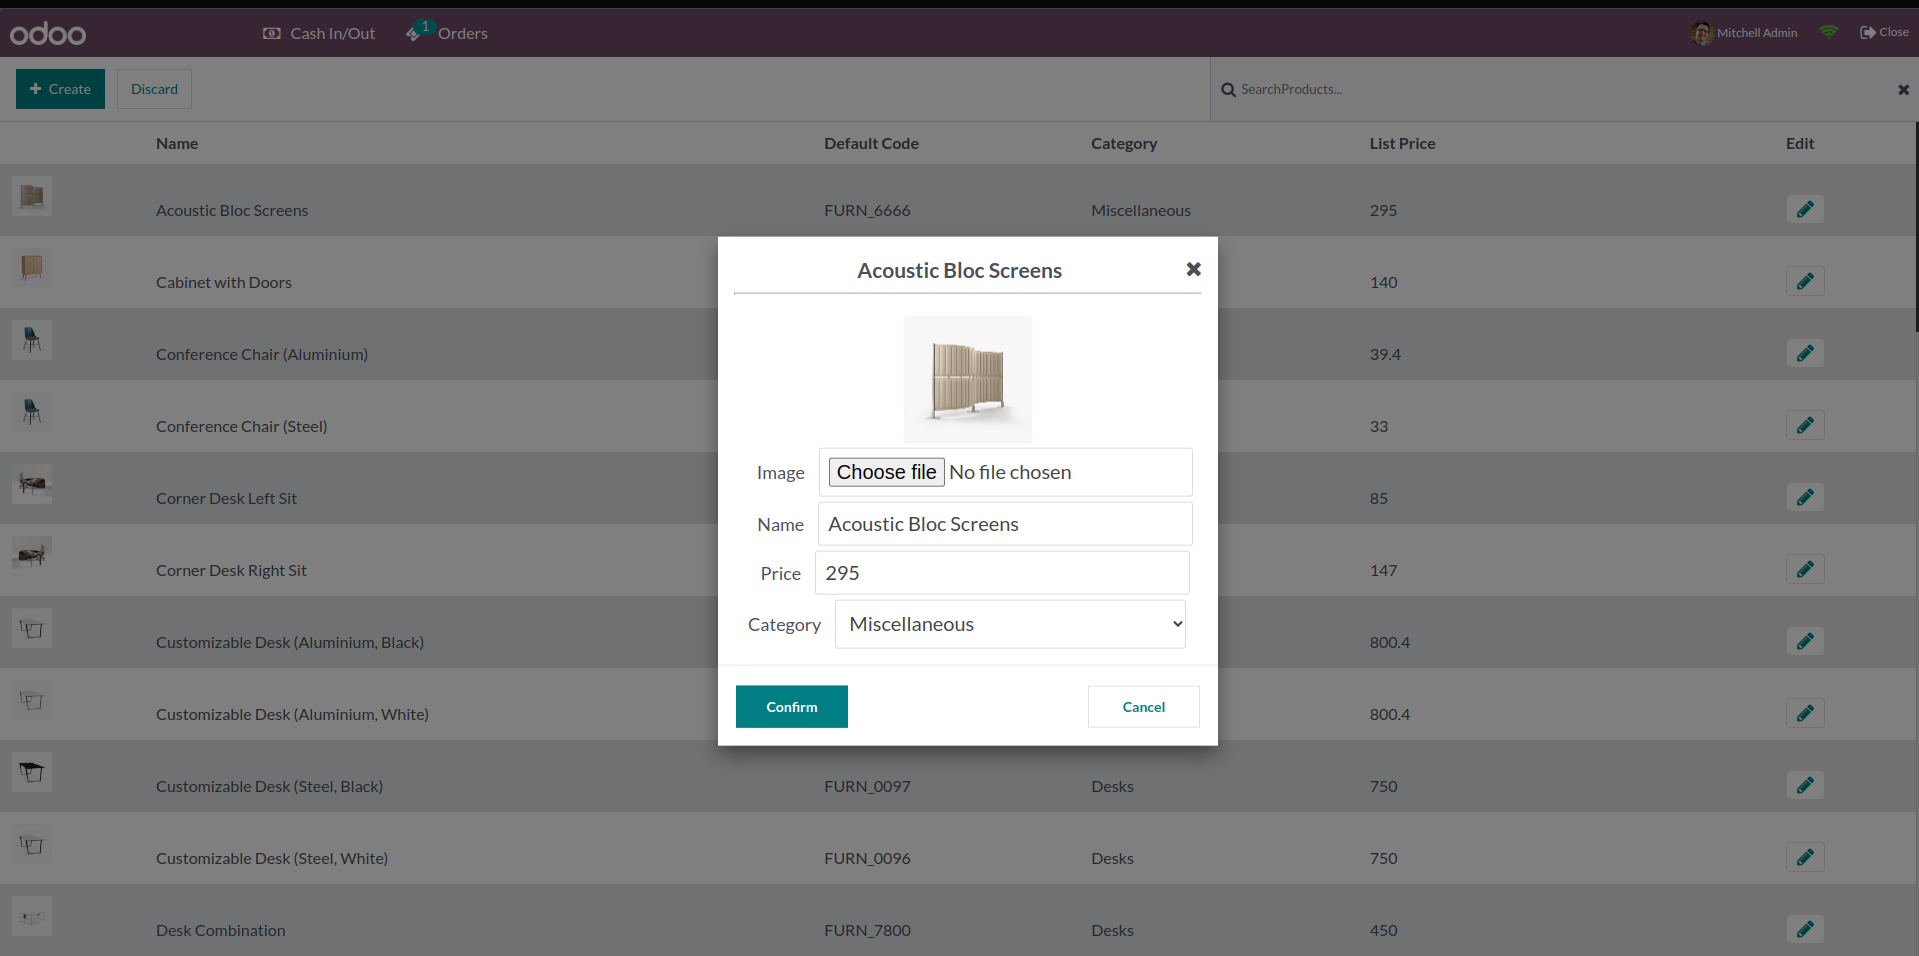
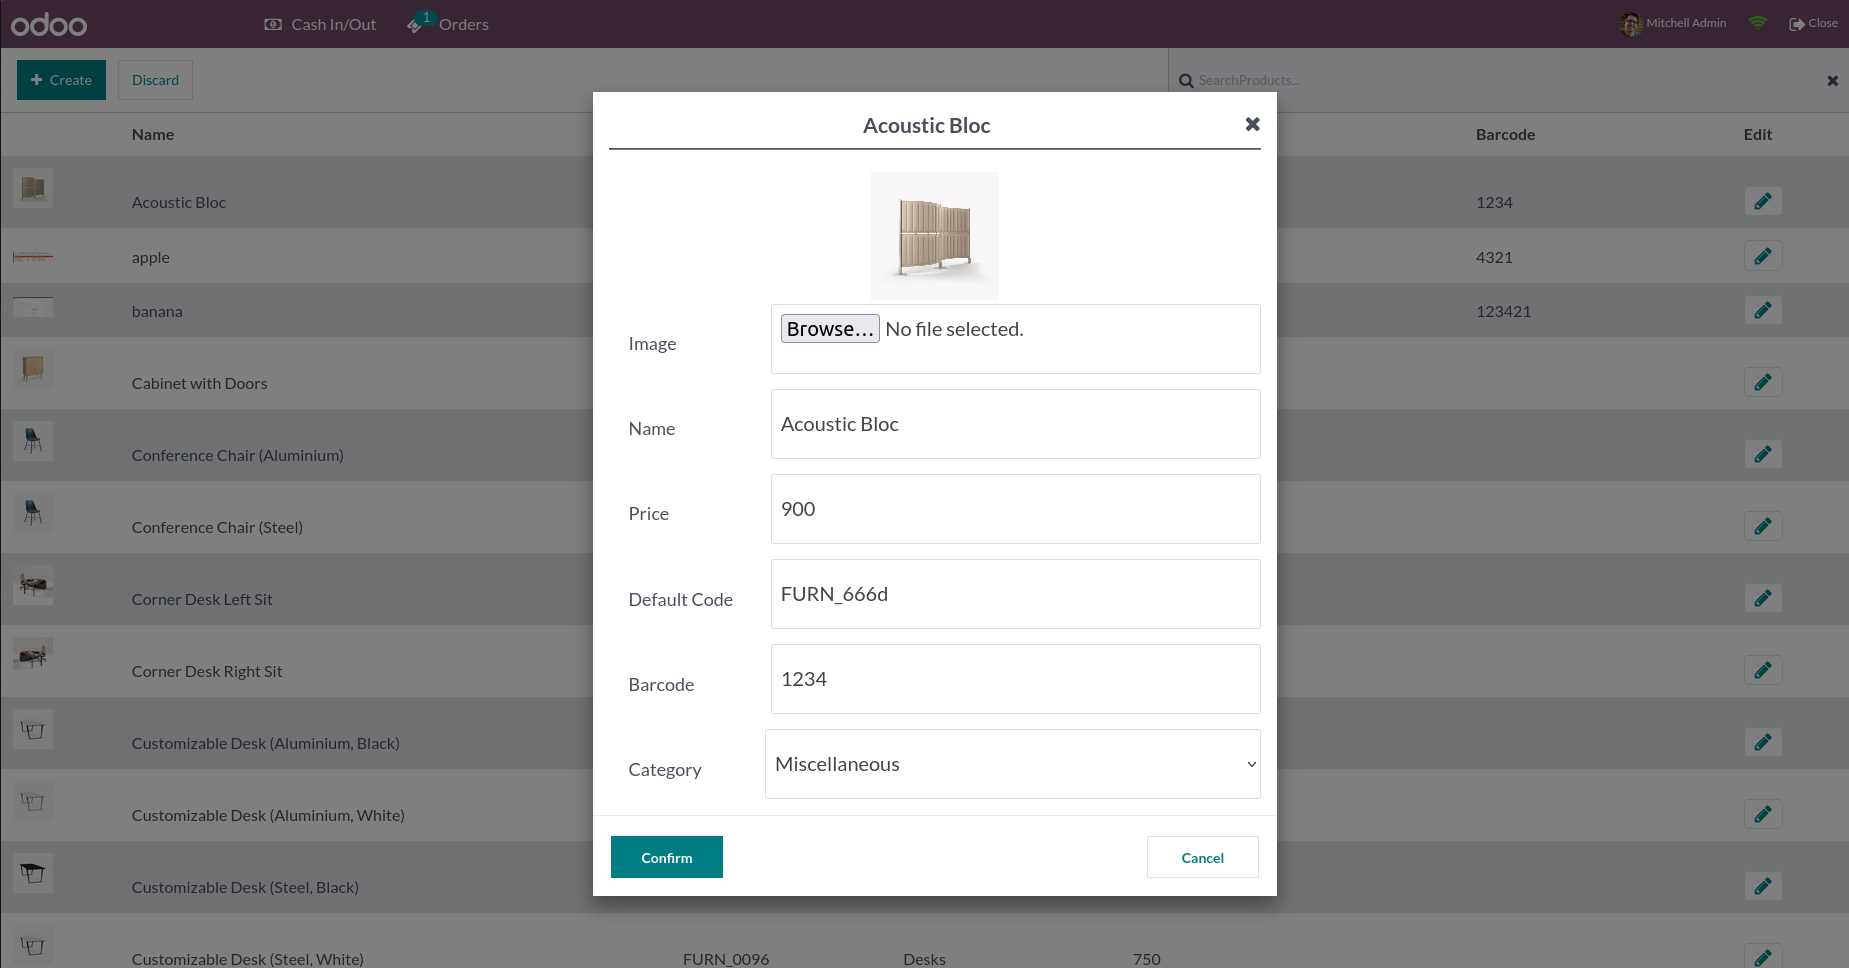
Apr 18 [UPDT] Bug Fixed 'pos_product_create_edit'

diff --git a/pos_product_create_edit/static/description/index.html b/pos_product_create_edit/static/description/index.html
@@ -25,7 +25,7 @@
           Product Create & Edit From Pos</h1>
         <p style="color:#FFFFFF; padding: 8px 15px; text-align: center; font-size: 24px;">You can directly edit or create new product from point of sale.</p>
         <!-- END OF APP HERO -->
-        <img src="assets/screenshots/hero.webp" class="img-responsive"
+        <img src="assets/screenshots/hero.gif" class="img-responsive"
           style="width: 100%; margin-left: auto; margin-right: auto;" />
       </div>
     </div>
@@ -163,7 +163,7 @@
       </h3>
       <p style="font-weight: 400; font-family: 'Montserrat', sans-serif; font-size: 14px;"></p>
         <p style="font-weight: 400; font-family: 'Montserrat', sans-serif; font-size: 14px;">On the product screen you can see All products Listed.Each products have a edit button on the right side. By clicking on the button you can edit the product directly from pos.</p>
-      <img src="assets/screenshots/2.jpg" class="img-thumbnail">
+      <img src="assets/screenshots/2.png" class="img-thumbnail">
     </div>
     <div style="display: block; margin: 30px auto;">
       <h3 style="font-family: 'Montserrat', sans-serif; font-size: 18px; font-weight: bold;">Product Edit popup

diff --git a/pos_product_create_edit/static/src/js/ProductEditPopup.js b/pos_product_create_edit/static/src/js/ProductEditPopup.js
@@ -58,6 +58,12 @@ class EditProductPopup extends AbstractAwaitablePopup {
     if ($("#product_category").val()) {
       values["pos_categ_id"] = parseInt($("#product_category").val());
     }
+    if ($("#barcode").val()) {
+      values["barcode"] = parseInt($("#barcode").val());
+    }
+    if ($("#default_code").val()) {
+      values["default_code"] = parseInt($("#default_code").val());
+    }
     this.rpc({
       model: "product.product",
       method: "write",
@@ -66,6 +72,8 @@ class EditProductPopup extends AbstractAwaitablePopup {
       if (result) {
         this.props.product.display_name = $("#display_name").val();
         this.props.product.lst_price = $("#list_price").val();
+        this.props.product.barcode = $("#barcode").val();
+        this.props.product.default_code = $("#default_code").val();
         this.props.product.pos_categ_id = [
           parseInt($("#product_category").val()),
           $("#product_category")[0].selectedOptions[0].title,

diff --git a/pos_product_create_edit/static/src/js/ProductCreatePopup.js b/pos_product_create_edit/static/src/js/ProductCreatePopup.js
@@ -50,6 +50,8 @@ class CreateProductPopup extends AbstractAwaitablePopup {
     let price = $("#list_price").val();
     let cost = $("#cost_price").val();
     let category = $("#product_category").val();
+    let barcode = $("#barcode").val();
+    let default_code = $("#default_code").val();
     let values = {};
     if (base64_img) {
       values["image_1920"] = base64_img;
@@ -65,6 +67,12 @@ class CreateProductPopup extends AbstractAwaitablePopup {
     }
     if (category) {
       values["pos_categ_id"] = category;
+    }
+    if (barcode) {
+      values["barcode"] = barcode;
+    }
+    if (default_code) {
+      values["default_code"] = default_code;
     }
     values["available_in_pos"] = true;
     await this.rpc({

diff --git a/pos_product_create_edit/static/src/css/ProductList.css b/pos_product_create_edit/static/src/css/ProductList.css
@@ -27,7 +27,7 @@ select.form-control{
     border: none;
     box-shadow: 0px 0px 0px 1px gainsboro inset;
     box-sizing: border-box;
-    width: 75%;
+    width: 85%;
 }
 i.fa.fa-plus.create_btn{
     margin-right:5px;

diff --git a/pos_product_create_edit/__manifest__.py b/pos_product_create_edit/__manifest__.py
@@ -20,7 +20,7 @@
 #############################################################################
 {
     'name': 'Product Create Or Edit From Point of Sale ',
-    'version': '16.0.1.0.0',
+    'version': '16.0.1.0.1',
     'summary': 'This Module will help to create and edit products directly from point of sale.',
     'category': 'Point of Sale',
     'author': 'Cybrosys Techno Solutions',

diff --git a/pos_product_create_edit/doc/RELEASE_NOTES.md b/pos_product_create_edit/doc/RELEASE_NOTES.md
@@ -5,7 +5,7 @@
 #### ADD
 Initial Commit Product Create & Edit From Point Of Sale
 
-
-
-
-
+#### 12.04.2023
+#### Version 16.0.1.0.1
+#### UPDATE
+Updated the barcode field and internal reference fields.
